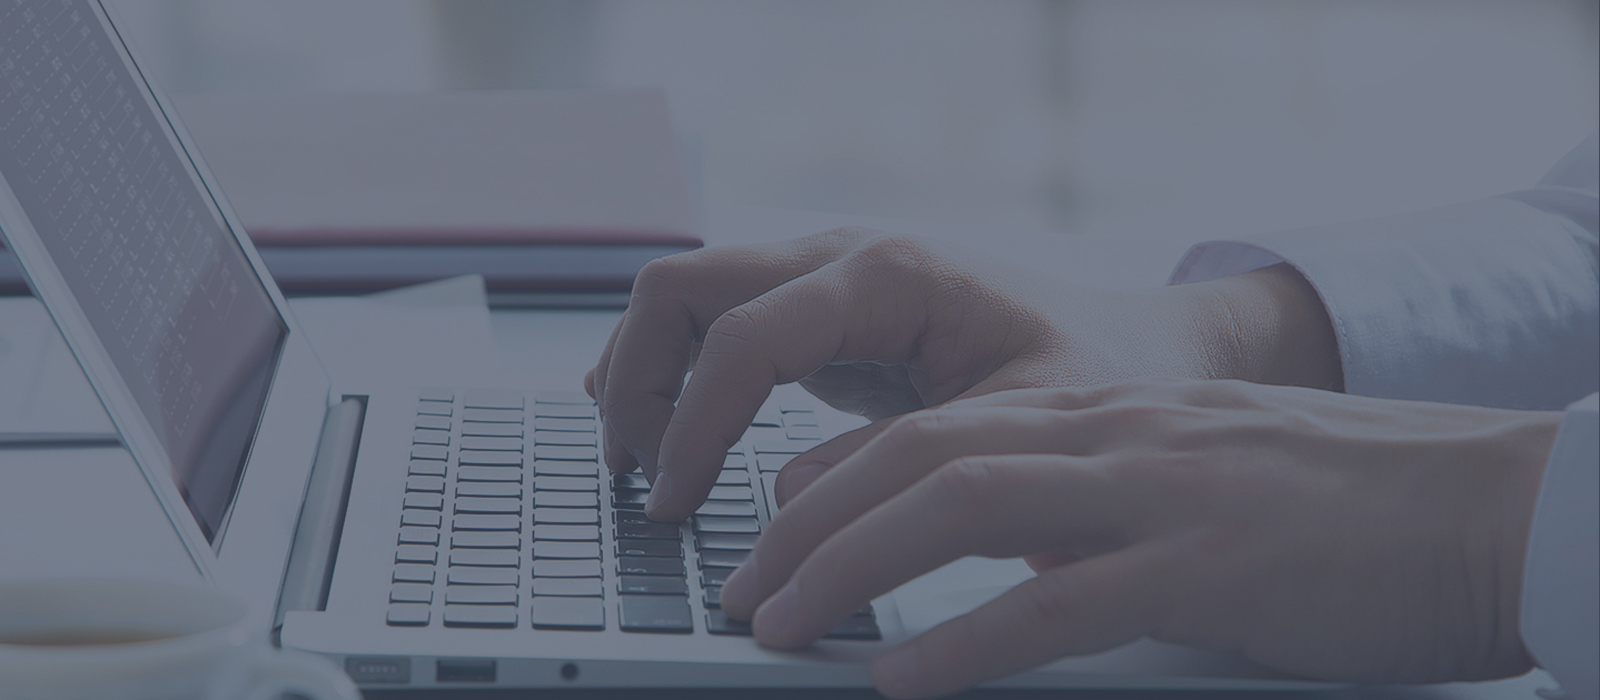
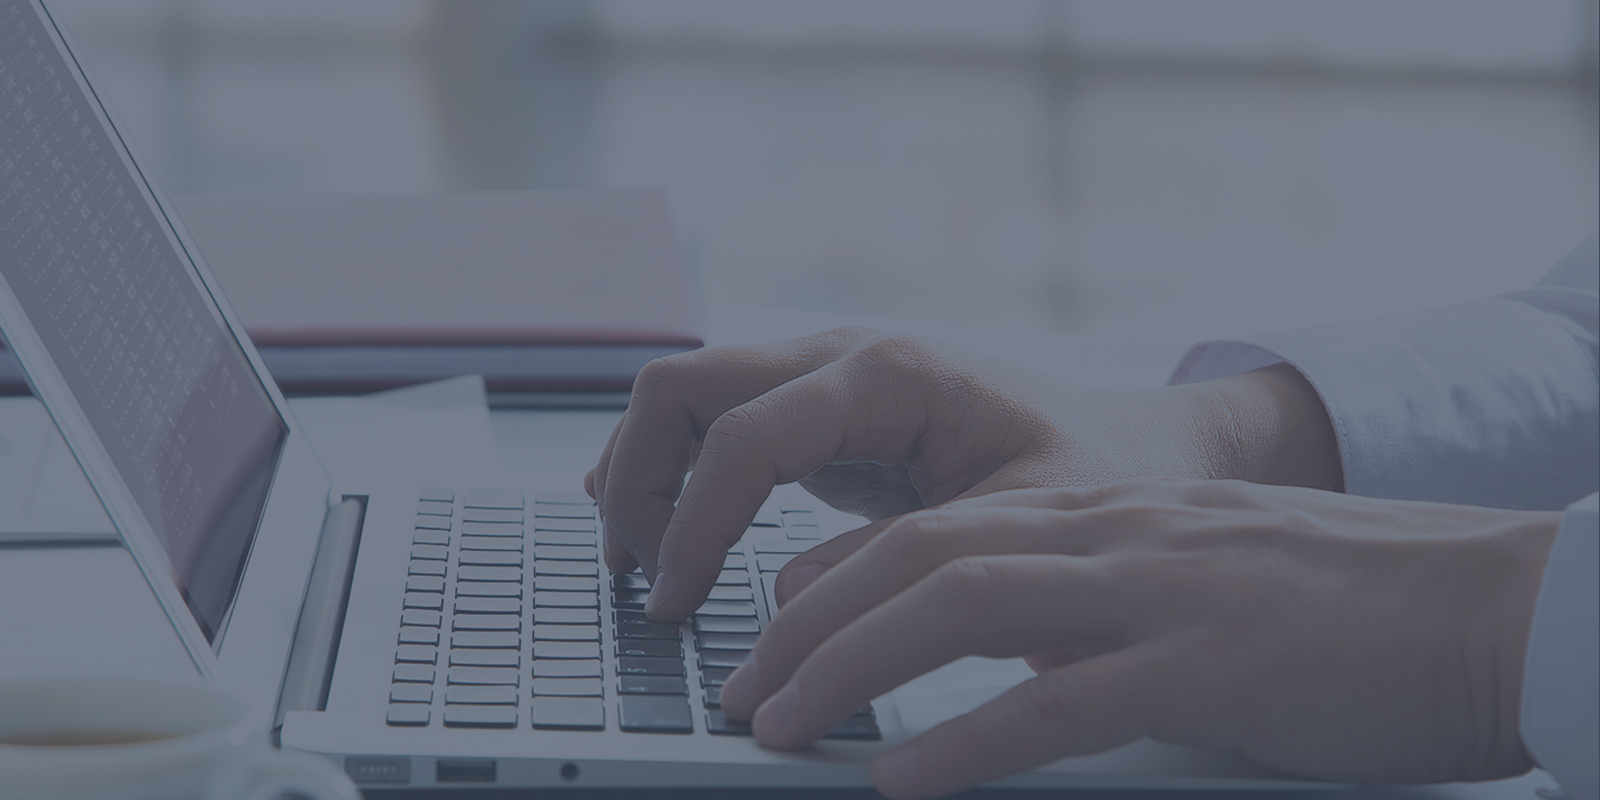
update

diff --git a/css/style.css b/css/style.css
@@ -24,7 +24,7 @@ p{
 .banner img{
     width: 100%;
     height: 700px;
-    margin-top: 70px;
+    margin-top: 80px;
     position: relative;
 
 }
@@ -55,10 +55,10 @@ p{
     overflow: hidden;
     padding-right:-15px;
     padding-left:-15px;
+    margin-bottom: -20px;
 
 }
 .carousel-control{
-
     top: 0;
     bottom: 0;
     left: 0;
@@ -72,7 +72,6 @@ p{
     opacity: .5;
 }
 .sr-only{
-
     width: 1px;
     height: 1px;
     padding: 0;
@@ -197,6 +196,9 @@ h6{
     margin-top: 10px;
     margin-bottom: 10px;
     float: left;
+}
+.icon1{
+    padding-right: 10px;
 }
 .row .text-footer{
     margin-top: 15px;

diff --git a/strict.php b/strict.php
@@ -74,8 +74,7 @@ $totalrows_icon = mysqli_num_rows($query_icon);
 <div class="container-w3 banner">
     <div class="w3-container text-center">
         <div id="mycarousel" class="carousel slide" data-ride="mycarousel">
-            <div class="carousel-inner"
-            ">
+            <div class="carousel-inner">
             <?php
             $i = 0;
             while ($rows_banner = mysqli_fetch_array($query_banner)) {
@@ -88,6 +87,7 @@ $totalrows_icon = mysqli_num_rows($query_icon);
                 } ?>
 
                 <img src="img/<?php echo $rows_banner['anh'] ?>">
+
                 <div class="anh-banner text-center">
                     <h1><?php echo $rows_banner['title'] ?></h1>
                     <hr>
@@ -111,9 +111,7 @@ $totalrows_icon = mysqli_num_rows($query_icon);
             <span class="sr-only">Next</span>
         </a>
 
-        <a href="#contact-us" class="active">
-            <button type="button" class="btn btn-lg btn1">Call to action</button>
-        </a> <br>
+        <a href="#contact-us" class="active"><button type="button" class="btn btn-lg btn1">Call to action</button></a> <br>
         <a href="#contact-us" class="active"><span class="glyphicon glyphicon-chevron-down gly1"></span></a>
     </div>
 
@@ -267,14 +265,14 @@ $totalrows_icon = mysqli_num_rows($query_icon);
 <footer>
     <div class="container">
         <div class="row ">
-            <div class=" col-lg-6 col-md-6 col-sm-4  col-xs-4 ">
+            <div class=" col-lg-6 col-md-8 col-sm-7  col-xs-5 ">
                 <p class="text-footer"> Copyright 2014,Strict</p></div>
-            <div class=" col-lg-6 col-md-6 col-sm-8 col-xs-8 glyphicon1 ">
+            <div class="col-lg-6  col-md-4 col-sm-5 col-xs-7 glyphicon1 ">
                 <div class="row">
                     <?php
                     while ($rows_icon = mysqli_fetch_array($query_icon)) {
                         ?>
-                        <div class=" col-md-2 col-sm-2 col-xs-2 col-lg-1" style="float: right">
+                        <div class=" col-md-2 col-sm-2 col-xs-2 col-lg-1 icon1" style="float: right">
                             <a href="<?php echo $rows_icon['link']; ?>"> <img
                                         src="img/glyphicon<?php echo $rows_icon['id'] ?>.jpg"></a></div>
                         <?php
